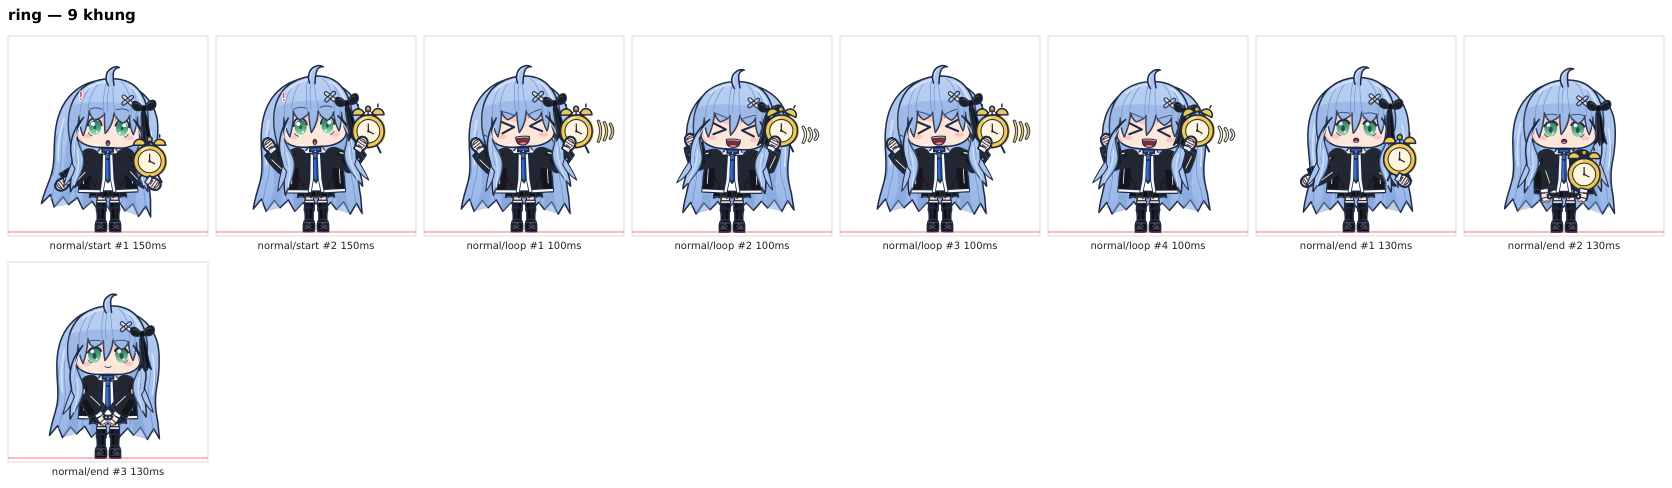
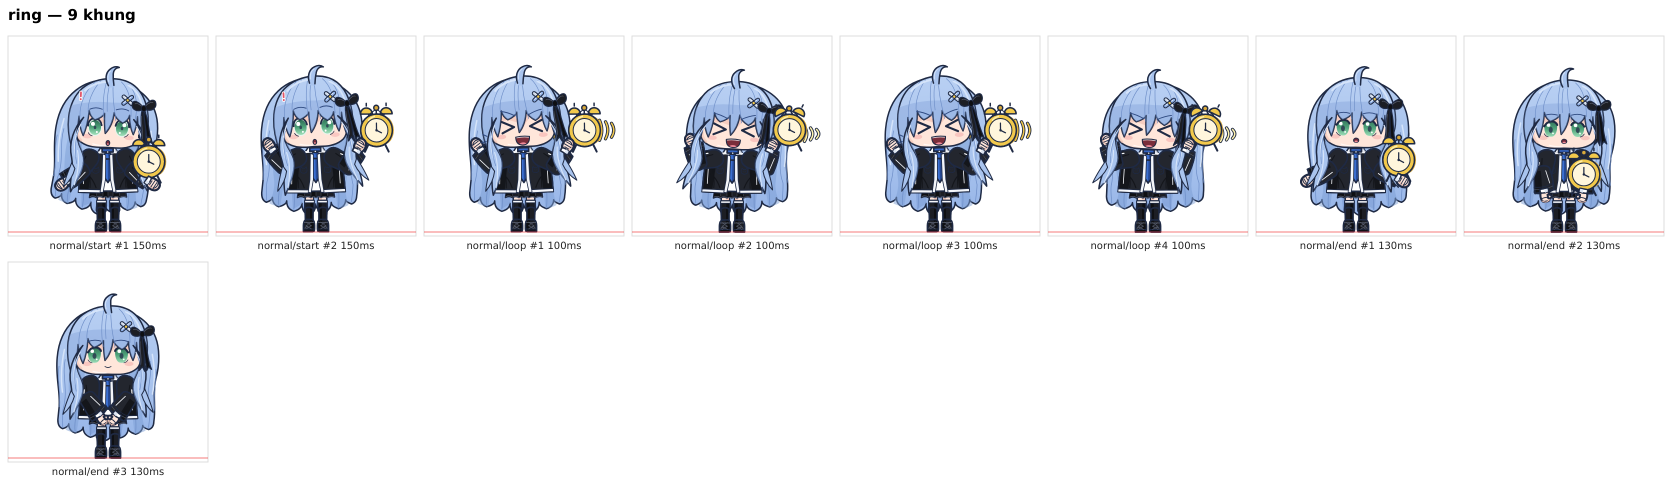
art(action): ring vòng 2 dời chuông ra ngoài

diff --git a/tools/rig/actions/ring.js b/tools/rig/actions/ring.js
@@ -29,7 +29,7 @@ function bellShow(bones, file, dx, dy) {
   const loc = ap(inv(Mb), W);                                   // vị trí đích trong hệ xương
   return { id: 'bell', file, bone: 'hand_r', x: r2(loc[0] - rc[0]), y: r2(loc[1] - rc[1]), r: r2(-th), _c: W };
 }
-const BELL_W = { dx: 22, dy: -38 };
+const BELL_W = { dx: 41, dy: -44 };
 
 function lerpBones(A, B, t) {
   const out = {};
@@ -57,17 +57,17 @@ function loopFrame(i) {
     head: { r: r2(-2 * s), y: r2(-0.5 * s) },
     hair_back: { r: r2(5 * s) }, sidelock_l: { r: r2(-6 * s) }, sidelock_r: { r: r2(-5 * s) },
     ahoge: { r: r2(10 * s) }, ribbon: { r: r2(-7 * s) },
-    upper_arm_r: { r: r2(-60 + 3 * s) }, forearm_r: { r: r2(-90 + 10 * s) }, hand_r: { r: r2(-10 * s) },
+    upper_arm_r: { r: r2(-52 + 3 * s) }, forearm_r: { r: r2(-100 + 10 * s) }, hand_r: { r: r2(-10 * s) },
     upper_arm_l: { r: r2(62 - 4 * s) }, forearm_l: { r: r2(88 - 6 * s) }, hand_l: { r: r2(5 * s) },
   };
   const bs = bellShow(bones, sh ? 'props/bell_shake.svg' : 'props/bell.svg', BELL_W.dx, BELL_W.dy);
-  const bx = bs._c[0], by = bs._c[1]; delete bs._c;
+  const bx = bs._c[0], by = bs._c[1]; delete bs._c; if (process.env.RDBG) console.error("bell", i, bx.toFixed(1), by.toFixed(1));
   return {
     ms: 100, face: 'shout', bones, swap: { hand_r: 'fist', hand_l: 'fist' },
     z: { hand_r: 205 },
     show: [
       bs,
-      { id: 'ring_fx', file: sh ? 'fx/ring_lines2.svg' : 'fx/ring_lines.svg', bone: 'none', x: bx - 248, y: by - 230, z: 118 },
+      { id: 'ring_fx', file: sh ? 'fx/ring_lines2.svg' : 'fx/ring_lines.svg', bone: 'none', x: bx - 262, y: by - 230, z: 118 },
     ],
   };
 }
